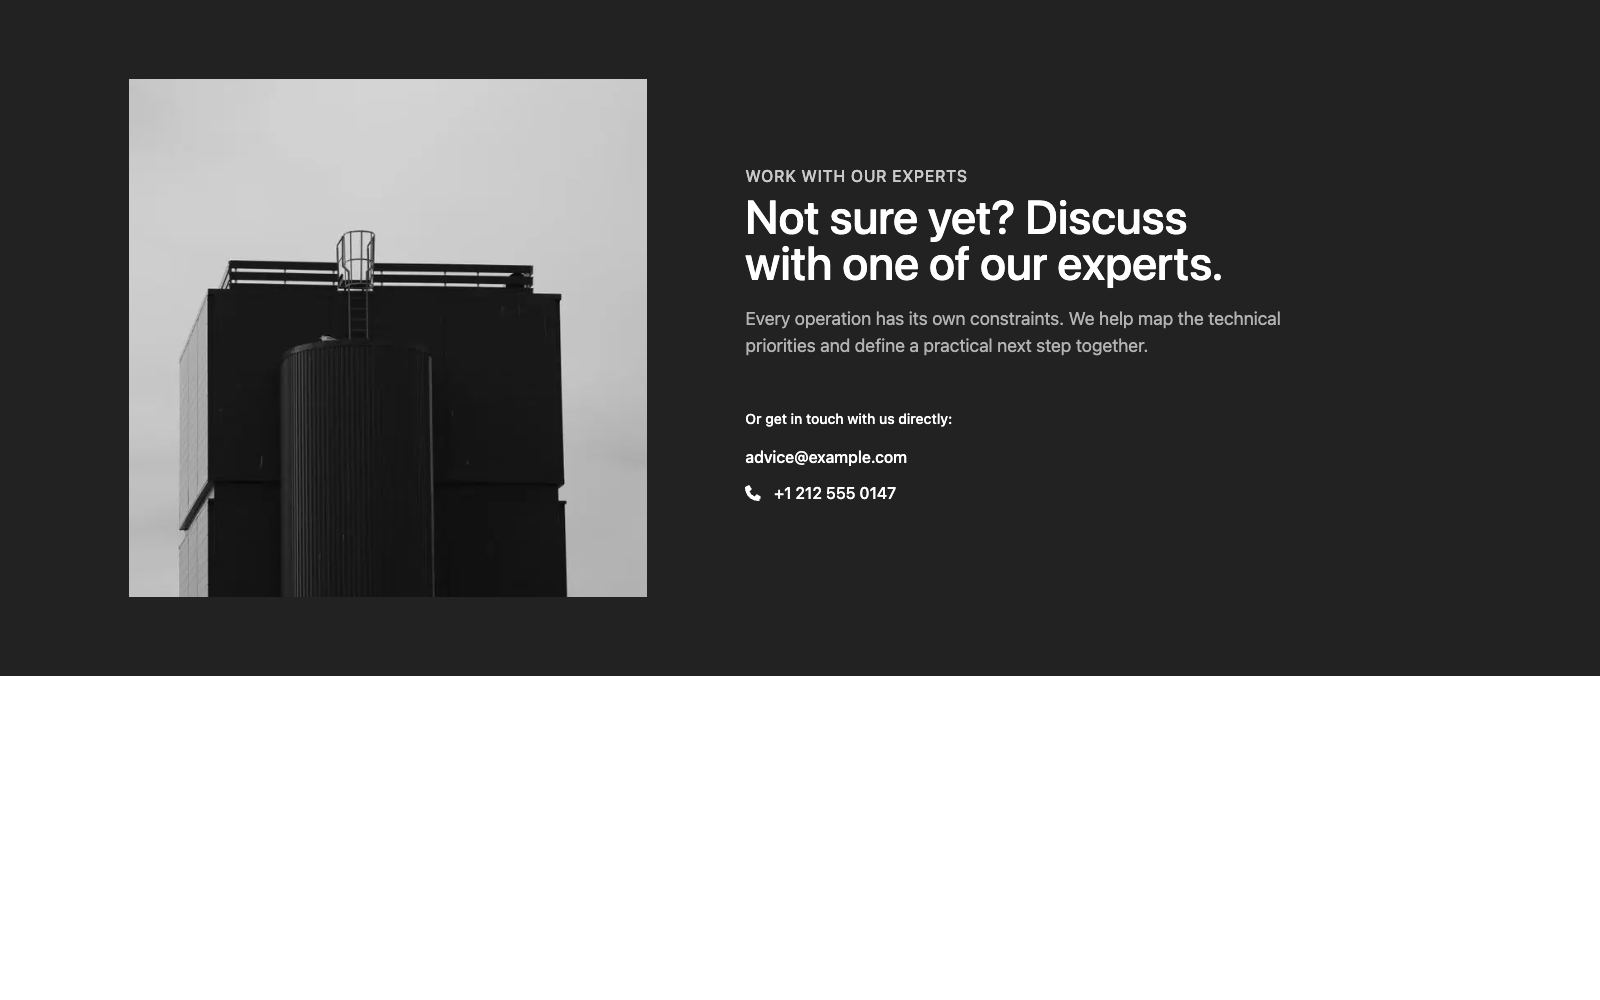
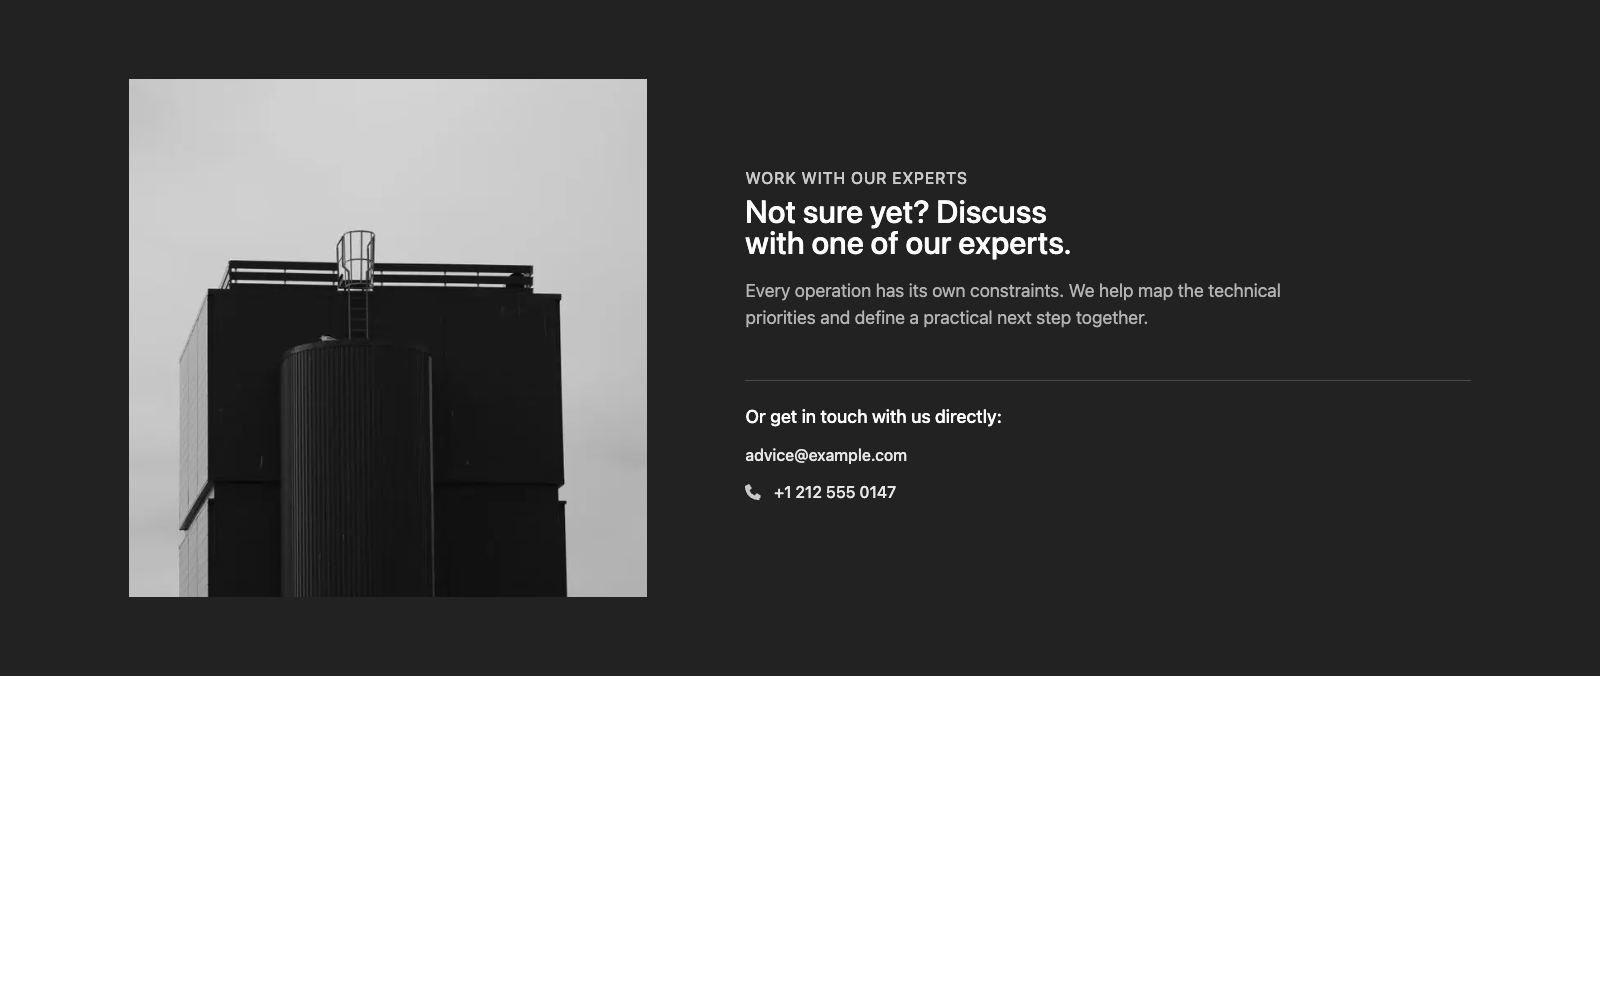
Align description colors and form contact typography with theme tokens

Changed region(s): [[0.4688, 0.155, 0.8125, 0.372], [0.4688, 0.403, 0.625, 0.496]]

diff --git a/CHANGELOG.md b/CHANGELOG.md
@@ -28,6 +28,8 @@
 - Omit incomplete optional CTAs during frontend conversion, including nested callouts, without dropping their section or page. Keep publish-time validation, required CTA validation and URL safety checks intact.
 - Synchronize Process Story Trinity progression with its six-second linear timer fill. Hover and offscreen pauses preserve elapsed progress; clicking stops autoplay and fills the selected timer.
 - Expose Steps Stage item descriptions as native Payload rich text instead of textareas, matching the existing rich-text renderer and stored editor data.
+- Use `primary-light` for both Homepage Problem Solution intros and reusable item descriptions in semi-dark, and `primary` for Read More descriptions in semi-light.
+- Size Form Section intro headings one visual level below their semantic tag. Use theme-aware contact text and accent icons, token-based large contact headings with 1.2 line height, and a divider between the form and contact list.
 - Correct the Product Hero Allentown design reference to [Hero Section - Battery Packs](https://www.figma.com/design/7rHrxb3twyBvPo9QxkOBly/KSW-1-Tulip-Tech-Website?node-id=5255-538028&t=OtYEVTRRdAJJYQ0v-11); content fields and rendering are unchanged.
 
 ## 26.10.2-beta.25 — 2026-10-23
